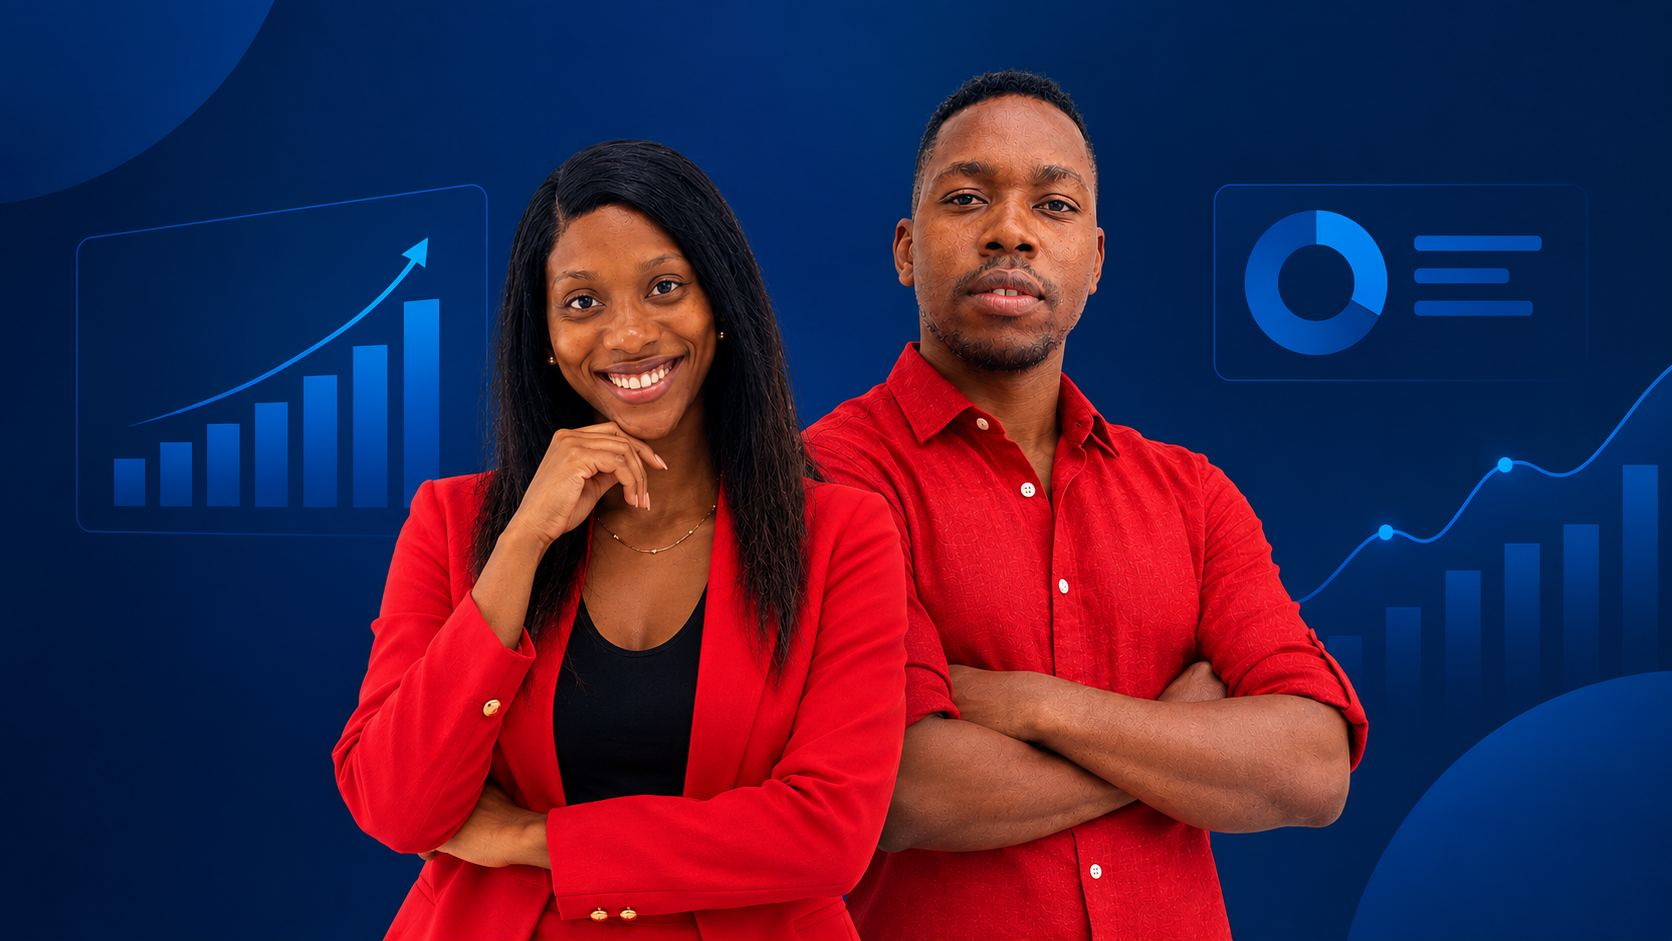
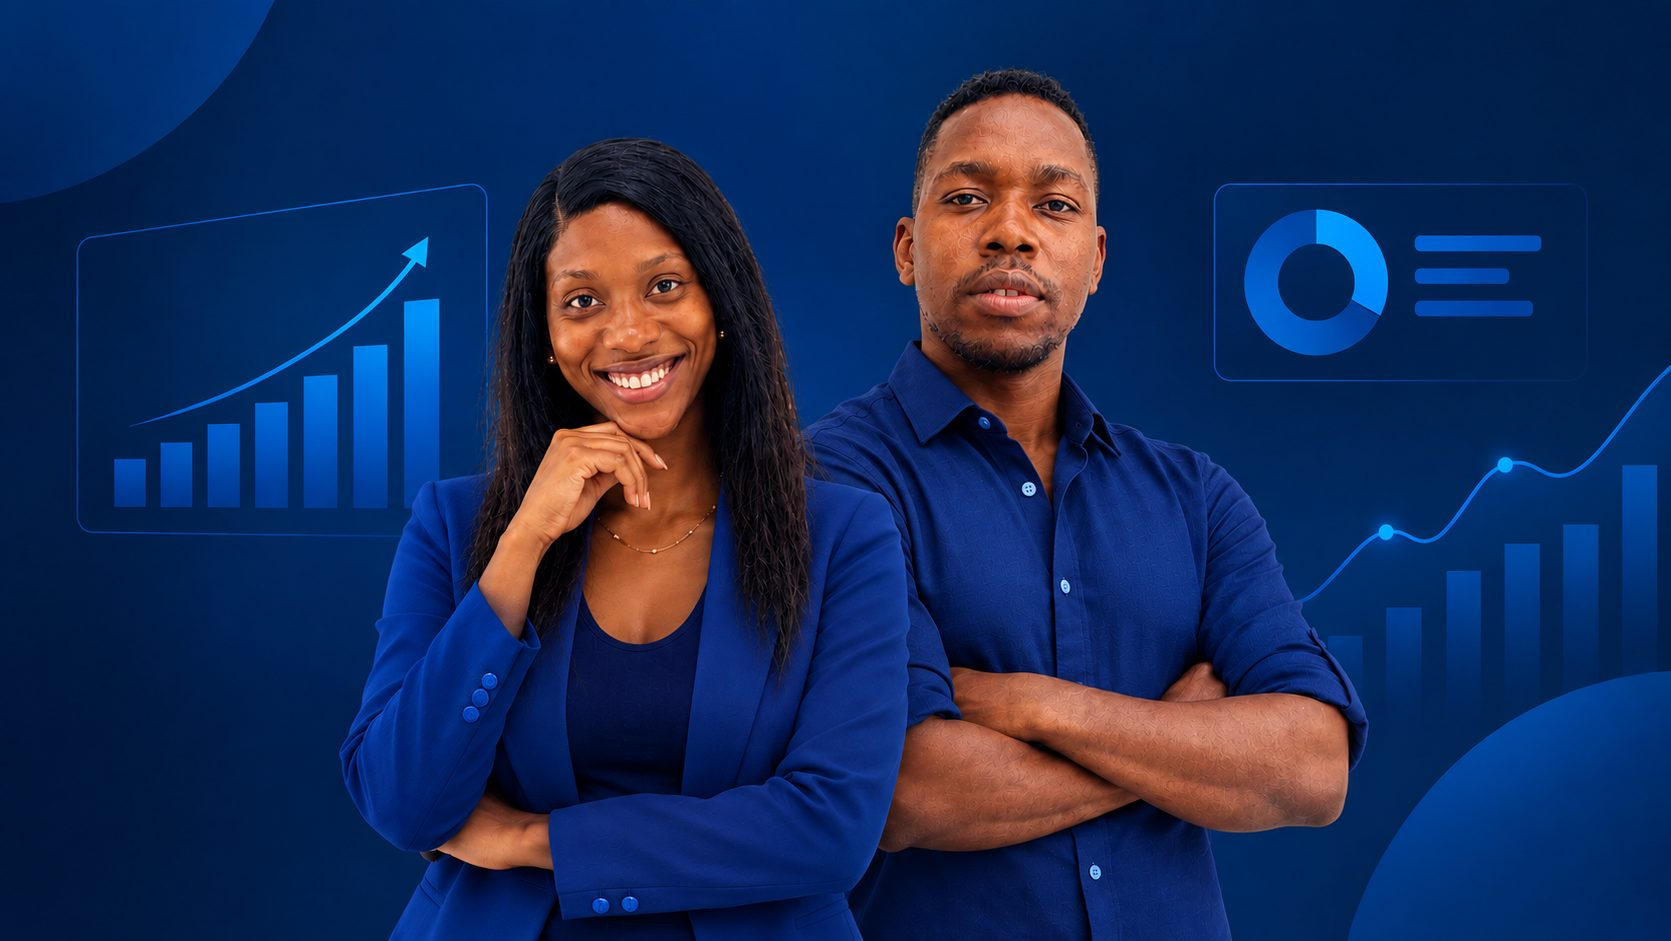
Login: substitui a foto, move o cartão para a direita, cobre o ecrã inteiro
- Nova fotografia (a pedido), sem o texto "Sistema Estatístico..." embutido.
- Cartão do formulário passa para o lado direito (a pedido) — ancorei o
  "background-position" a "right" (em vez de "left") para manter a
  correção anterior: o canto direito da foto (zona sem rostos, onde estão
  os ícones/gráficos decorativos) nunca se desloca, seja qual for o
  tamanho do ecrã, por isso o cartão nunca cai em cima de um rosto.
- Corrigido também um efeito secundário: em ecrã estreito (≤760px), o
  "justify-content:flex-end" do ecrã grande estava a empurrar a barra
  compacta + formulário para o fundo do ecrã, deixando um vazio em cima;
  repuesto para o topo nesse breakpoint.

Testado nas mesmas 9 larguras (761–1920px) e 4 alturas (650–1080px) na
mesma largura, telemóvel, e uma interação real no formulário — sem
sobreposição em nenhum caso, sem erros.

diff --git a/index.html b/index.html
@@ -404,27 +404,28 @@ footer{background:var(--nv);color:#C7D2E8;margin-top:auto;}
 <div id="zeloAuthGate" style="position:fixed;inset:0;z-index:999999;display:flex;">
 <style>
   #zeloAuthGate *{box-sizing:border-box;}
-  /* Fundo: fotografia a cobrir o ecrã inteiro. Importante: a largura é
-     travada a 100% ("background-size:100% auto", NUNCA "cover") — com
-     "cover" a escala depende de largura E altura da janela, e ao mudar a
-     altura a foto desliza horizontalmente por baixo do cartão, chegando a
-     esconder um rosto atrás dele nalgumas combinações de tamanho. Com a
-     largura travada, a posição horizontal de cada pessoa na foto é sempre
-     a mesma fracção da largura do ecrã — o cartão fica sempre na mesma
-     zona (sem rostos), seja qual for a altura da janela. A foto em si não
-     é alterada, só a forma como escala.
+  /* Fundo: fotografia a cobrir o ecrã inteiro, sem faixas vazias
+     ("background-size:cover"). Importante: a ancoragem é "right" (não
+     "center") — com "cover" centrado, ao variar a altura da janela o
+     recorte desloca-se para os DOIS lados por igual, podendo empurrar
+     alguém para debaixo do cartão. Ancorado à direita, o corte extra
+     acontece sempre do lado esquerdo da foto — o canto direito (onde
+     está o texto "Sistema Estatístico..." desta fotografia, sem
+     ninguém) nunca se desloca, seja qual for o tamanho do ecrã. A foto
+     em si não é alterada, só a forma como é enquadrada.
   */
   #zeloAuthGate{
     background-color:#16222F;
     background-image:url('icons/login_bg.jpg');
-    background-size:100% auto;background-position:center;background-repeat:no-repeat;
-    align-items:center;
+    background-size:cover;background-position:right center;background-repeat:no-repeat;
+    align-items:center;justify-content:flex-end;
   }
   #zeloAuthGate .zag-brand{display:none;}
-  /* Cartão do formulário: flutua sobre a fotografia, à esquerda, numa
-     zona sem rostos — com leve desfoque por trás para garantir
-     legibilidade sobre a foto. O logótipo ZELO fica aqui dentro (a pedido). */
-  #zeloAuthGate .zag-form-panel{position:relative;flex:none;width:100%;max-width:380px;margin-left:min(8vw,100px);padding:40px 38px;border-radius:20px;background:rgba(255,255,255,.94);-webkit-backdrop-filter:blur(18px) saturate(160%);backdrop-filter:blur(18px) saturate(160%);border:1px solid rgba(255,255,255,.6);box-shadow:0 30px 70px -24px rgba(9,17,31,.55);min-width:300px;max-height:calc(100vh - 56px);overflow-y:auto;}
+  /* Cartão do formulário: flutua sobre a fotografia, à direita (a
+     pedido), numa zona sem rostos — com leve desfoque por trás para
+     garantir legibilidade sobre a foto. O logótipo ZELO fica aqui
+     dentro. */
+  #zeloAuthGate .zag-form-panel{position:relative;flex:none;width:100%;max-width:380px;margin-right:min(8vw,100px);padding:40px 38px;border-radius:20px;background:rgba(255,255,255,.94);-webkit-backdrop-filter:blur(18px) saturate(160%);backdrop-filter:blur(18px) saturate(160%);border:1px solid rgba(255,255,255,.6);box-shadow:0 30px 70px -24px rgba(9,17,31,.55);min-width:300px;max-height:calc(100vh - 56px);overflow-y:auto;}
   #zeloAuthGate .zag-form-inner{max-width:360px;width:100%;margin:0 auto;}
   #zeloAuthGate .zag-brand-row{display:flex;align-items:center;gap:11px;margin-bottom:30px;max-width:360px;width:100%;margin-left:auto;margin-right:auto;}
   #zeloAuthGate .zag-brand-row img{width:44px;height:44px;border-radius:12px;object-fit:contain;box-shadow:0 6px 16px -6px rgba(22,34,47,.35);flex-shrink:0;}
@@ -502,9 +503,9 @@ footer{background:var(--nv);color:#C7D2E8;margin-top:auto;}
     /* Ecrã estreito: sem a fotografia de fundo (não cabe bem numa faixa
        estreita) — volta à barra azul-marinho compacta com o logótipo, como
        já acontecia antes, com o formulário a ocupar a largura toda. */
-    #zeloAuthGate{flex-direction:column;overflow-y:auto;align-items:stretch;background-image:none;background-color:#F5F6F8;}
+    #zeloAuthGate{flex-direction:column;justify-content:flex-start;overflow-y:auto;align-items:stretch;background-image:none;background-color:#F5F6F8;}
     #zeloAuthGate .zag-mobile-brand{display:flex;}
-    #zeloAuthGate .zag-form-panel{position:static;flex:none;width:100%;max-width:none;margin-left:0;padding:32px 24px;border-radius:0;background:#fff;-webkit-backdrop-filter:none;backdrop-filter:none;border:none;box-shadow:none;max-height:none;}
+    #zeloAuthGate .zag-form-panel{position:static;flex:none;width:100%;max-width:none;margin-left:0;margin-right:0;padding:32px 24px;border-radius:0;background:#fff;-webkit-backdrop-filter:none;backdrop-filter:none;border:none;box-shadow:none;max-height:none;}
     #zeloAuthGate .zag-brand-row{display:none;} /* já aparece na barra compacta acima */
   }
 </style>
